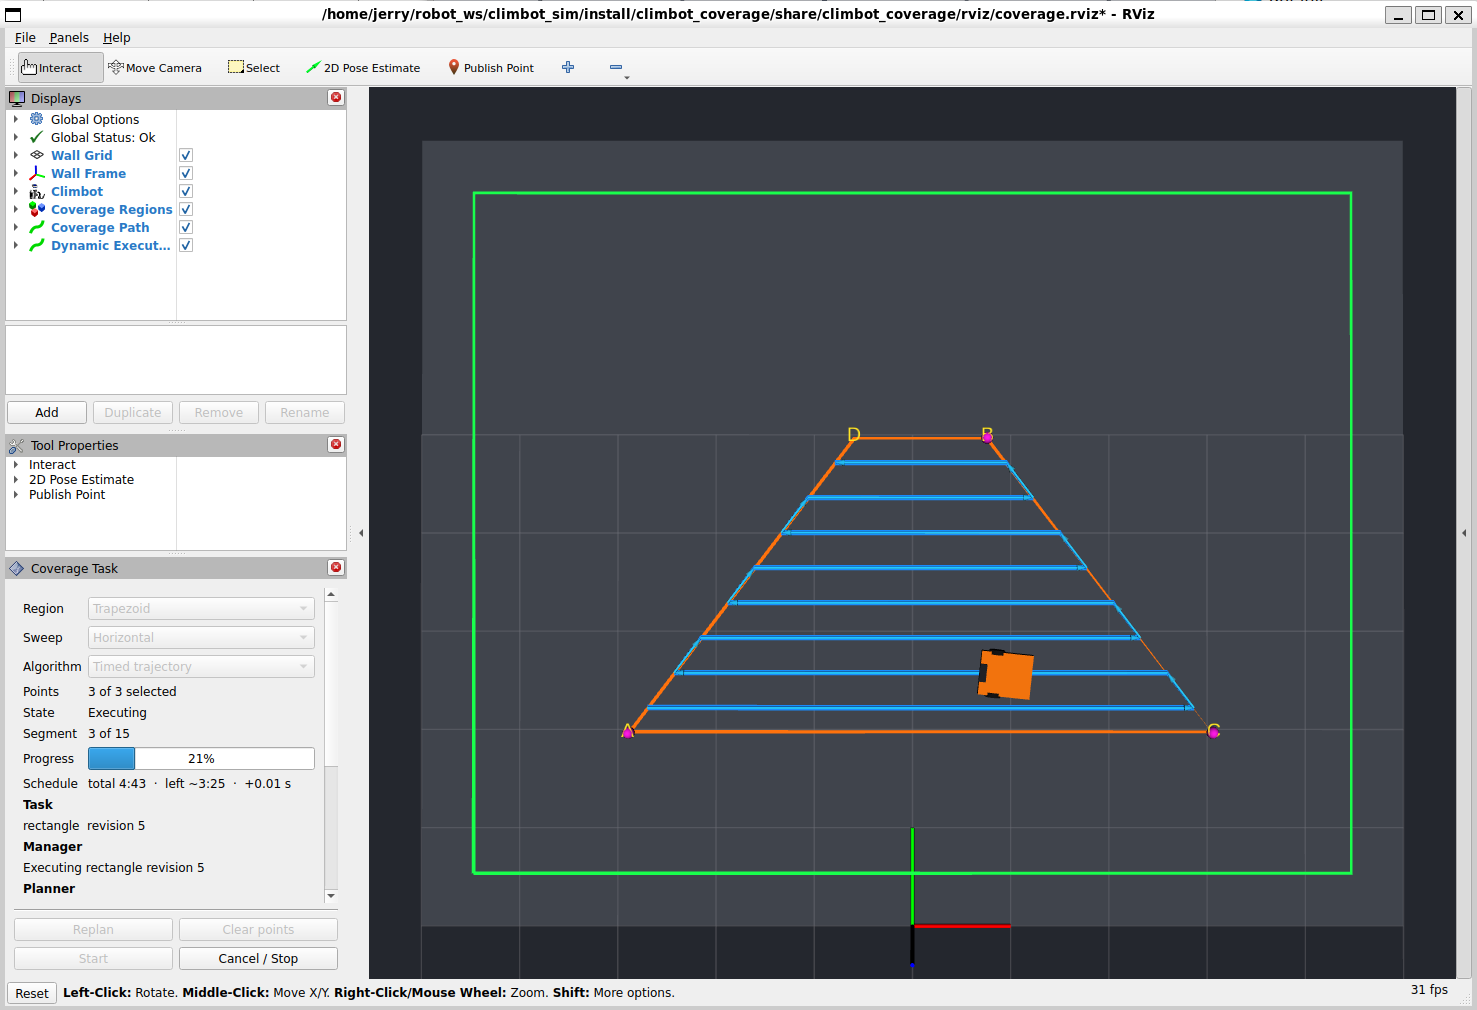
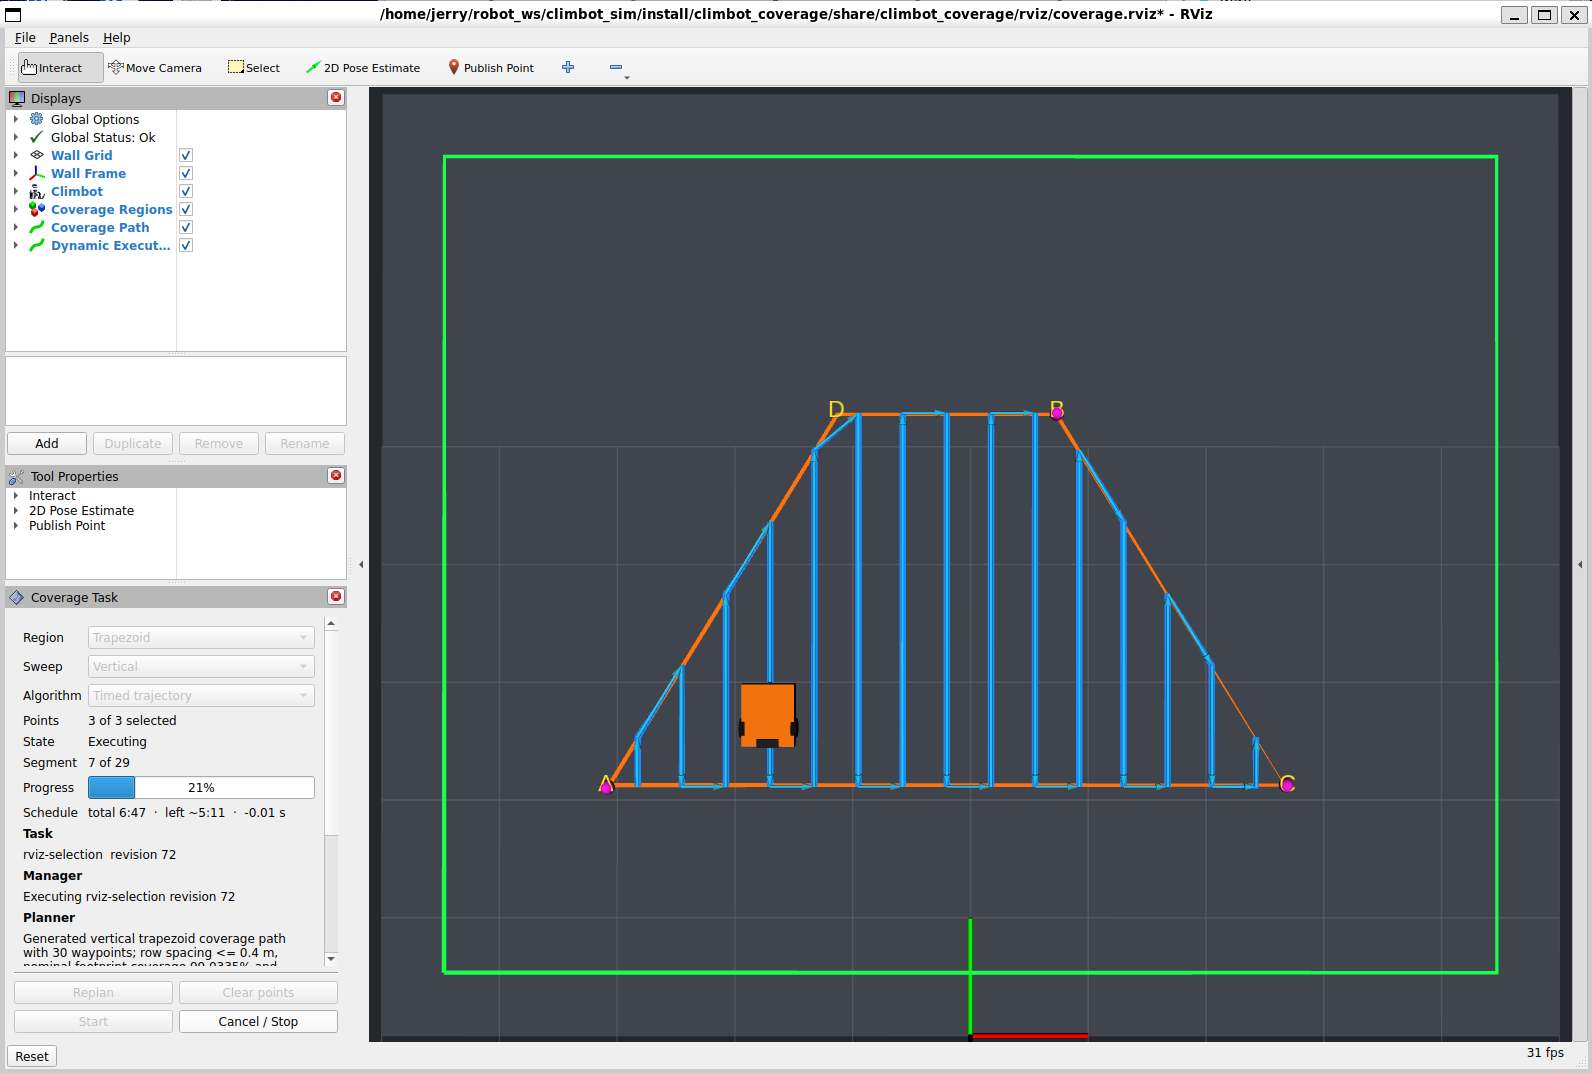
docs: retake the RViz screenshot now that the task id no longer names a shape
The previous shot was taken before ac1ca44 and showed the inconsistency
that commit fixed: a trapezoid drawn under "Executing rectangle revision
5". This one reads rviz-selection, so the headline image of the README
no longer demonstrates a bug.

The new run is a vertical sweep over 29 segments rather than a
horizontal one over 15, so the caption follows the picture rather than
the other way round, and gains a line explaining why the task is not
named after its shape - which is the first thing the image now invites
someone to ask.

Changed region(s): [[0.0, 0.0, 1.0, 1.0], [0.3737, 0.3683, 0.8409, 0.7366], [0.218, 0.0, 0.7786, 0.0307]]

diff --git a/README.md b/README.md
@@ -180,15 +180,17 @@ ros2 launch climbot_bringup coverage_mission.launch.py
 
 ![执行中的覆盖任务](docs/images/rviz_coverage_task.png)
 
-一次执行中的梯形横向覆盖任务。图中：
+一次执行中的梯形纵向覆盖任务。图中：
 
 - **绿框**是墙面按机器人安全边距内缩后的可达区域，从启动起常驻，点必须落在里面；
 - **橙色四边形**是点选出来的作业区域，`A`/`B`/`C`/`D` 是四个顶点；
-- **蓝色折线**是规划出的弓字扫描路径，机器人正走在 15 段中的第 3 段；
+- **蓝色折线**是规划出的弓字扫描路径，机器人正走在 29 段中的第 7 段；
 - 左下面板给出区域形状、扫描方向、直线控制算法、进度，以及 `Schedule` 一行的
   任务总时长、预计剩余和相对时间表的滞后。任务执行中，改变规划的五个控件
   （Region、Sweep、Algorithm、Replan、Clear points）连同 Start 一起置灰，只有
-  Cancel / Stop 可点。
+  Cancel / Stop 可点；
+- **Task** 一行是 `rviz-selection`。点选模式下形状由面板在运行时决定，所以任务
+  标识只说明区域从哪来，不声称它是什么形状。
 
 只看仿真、只预览规划、参数式演示、切换扫描方向与控制算法、批量回归，以及面板
 每一行的含义，见 **[docs/OPERATION.md](docs/OPERATION.md)**。
